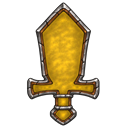
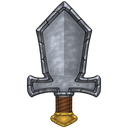
Power sword is steel with a leather grip and brass pommel
Both sword sprites are now the same grey blade: the circle in front
already carries the minion or weapon colour. The grip is lengthened and
the pommel flattened so both show past the circle. The offset goes from
0.08 to 0.1 stat canvases to keep the new art 8 master px inside the card.

diff --git a/unity/Assets/Scripts/Presentation/FrameRarityCatalog.cs b/unity/Assets/Scripts/Presentation/FrameRarityCatalog.cs
@@ -60,6 +60,7 @@ namespace Emberfall.Presentation
         public const string CostSocketSprite   = "socket_cost";   // blue
         public const string AttackSocketSprite = "socket_health"; // original red circle — weapon power
         public const string MinionAttackSocketSprite = "socket_attack"; // original yellow circle
+        // Both swords are the same steel art (2026-10-07): the circle carries the colour.
         public const string MinionPowerSwordSprite = "socket_attack_sword";
         public const string WeaponPowerSwordSprite = "socket_weapon_power_sword";
         public const string HealthSocketSprite = "socket_health_heart"; // red — minions
@@ -86,7 +87,7 @@ namespace Emberfall.Presentation
         public const float PowerSwordAngle = -135f; // upright source turns to hilt upper-left, point lower-right
         // Move only the sword slightly up/right, away from the card corner. Both ends clear the
         // circle while remaining 8 master px inside the card's capture bounds.
-        public static readonly Vector2 PowerSwordOffset = new(0.08f, 0.08f);
+        public static readonly Vector2 PowerSwordOffset = new(0.1f, 0.1f);
         public const float GemSocketPx  = 224f; // O206 bezel, O170 well
 
         public static string GemSprite(Rarity rarity) =>
